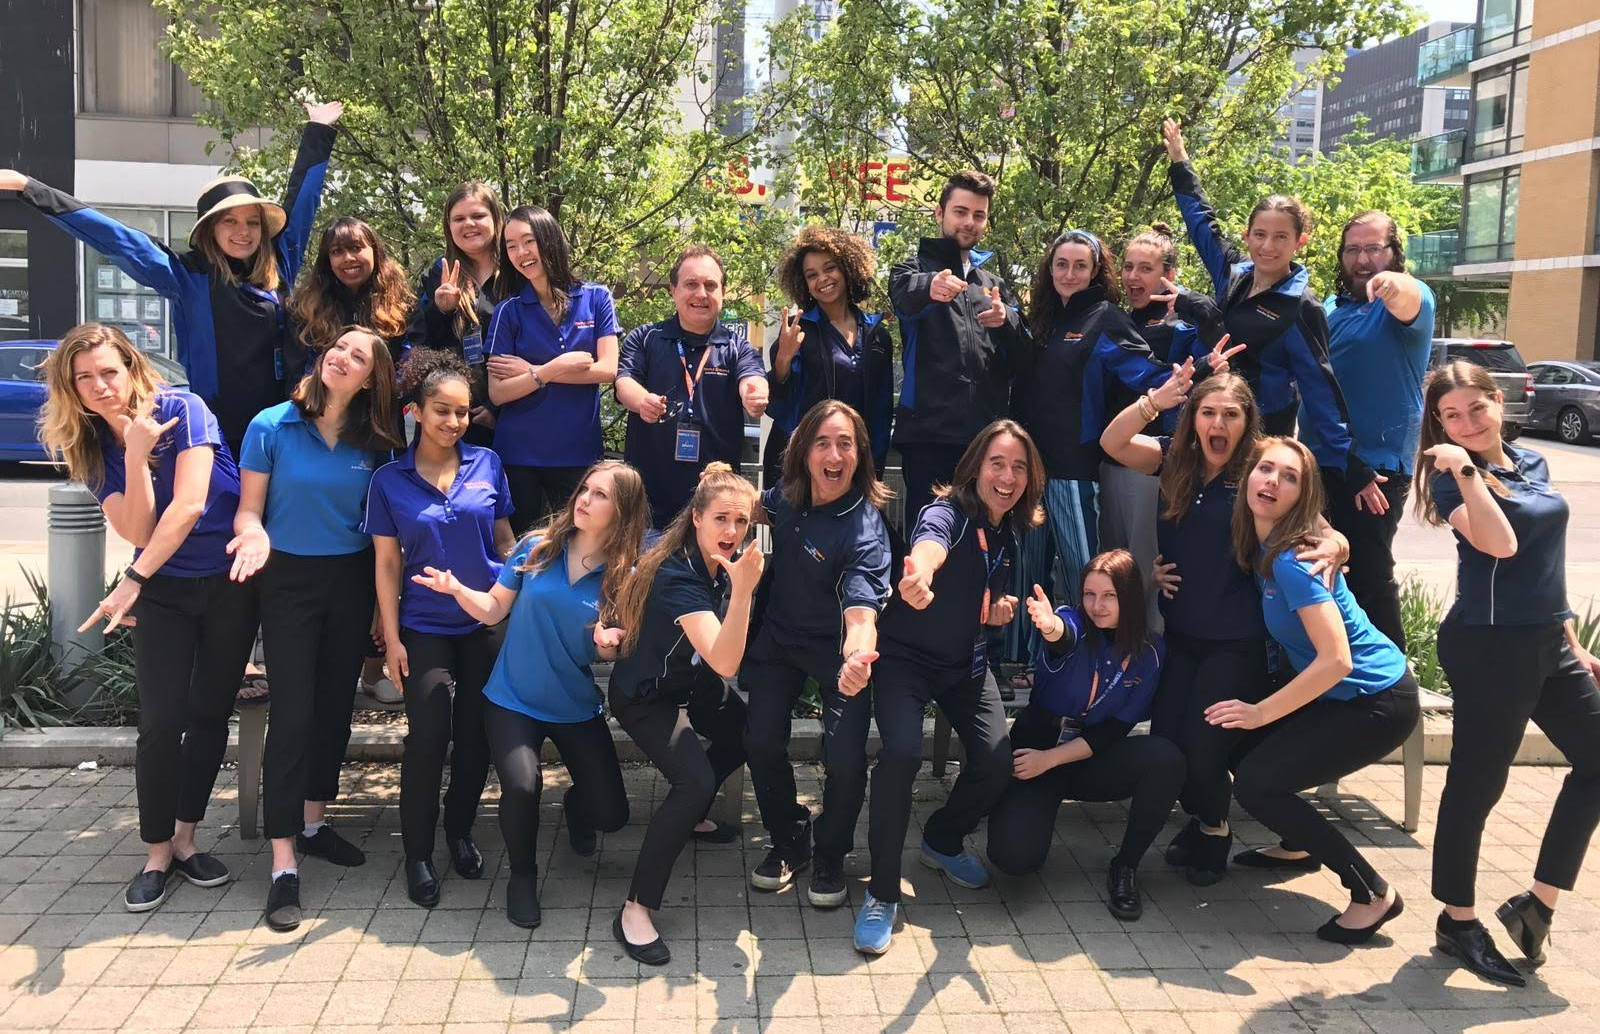
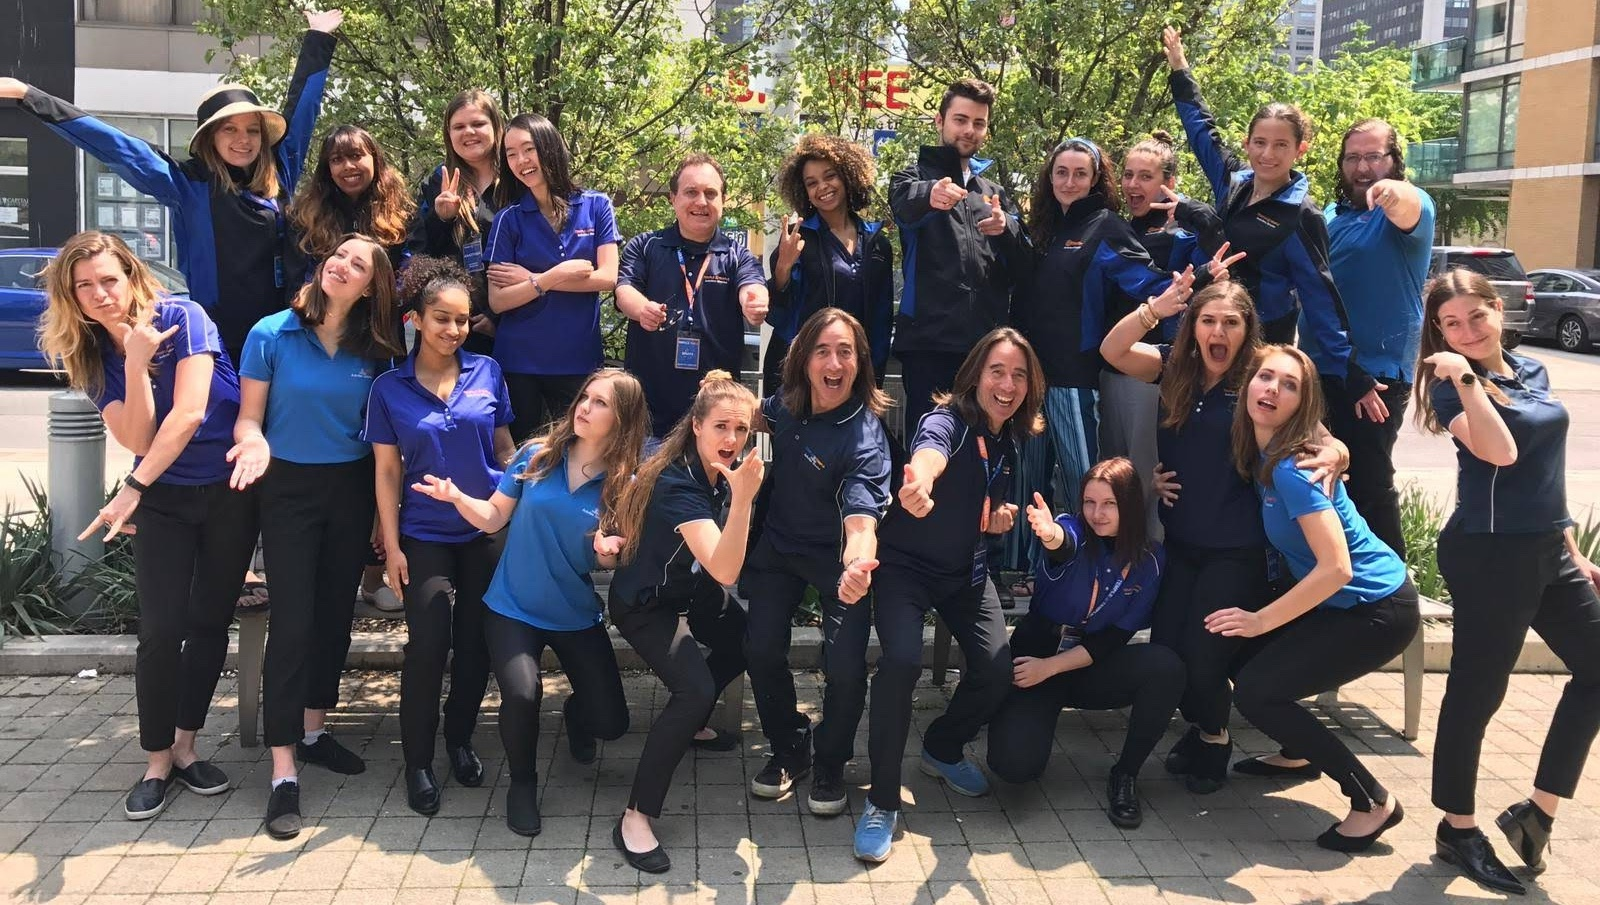
update landing image

diff --git a/app/components/Landing.tsx b/app/components/Landing.tsx
@@ -6,13 +6,13 @@ const Landing = () => {
   return (
     <div className='landing'>
       <div>
-      {/* <Image
+      <Image
           src="/images/landing-background.jpeg"
           width={600}
           height={450}
           alt="Temple and Temple staff"
           className='landing-image'
-        /> */}
+        />
         <Image
           src="/images/temple-logo2.png"
           width={600}

diff --git a/app/styles/landing.css b/app/styles/landing.css
@@ -39,7 +39,7 @@
   position: absolute;
   left: 0;
   top: 0;
-  filter: brightness(75%);
+  filter: brightness(60%);
 }
 
 .landing-text {
